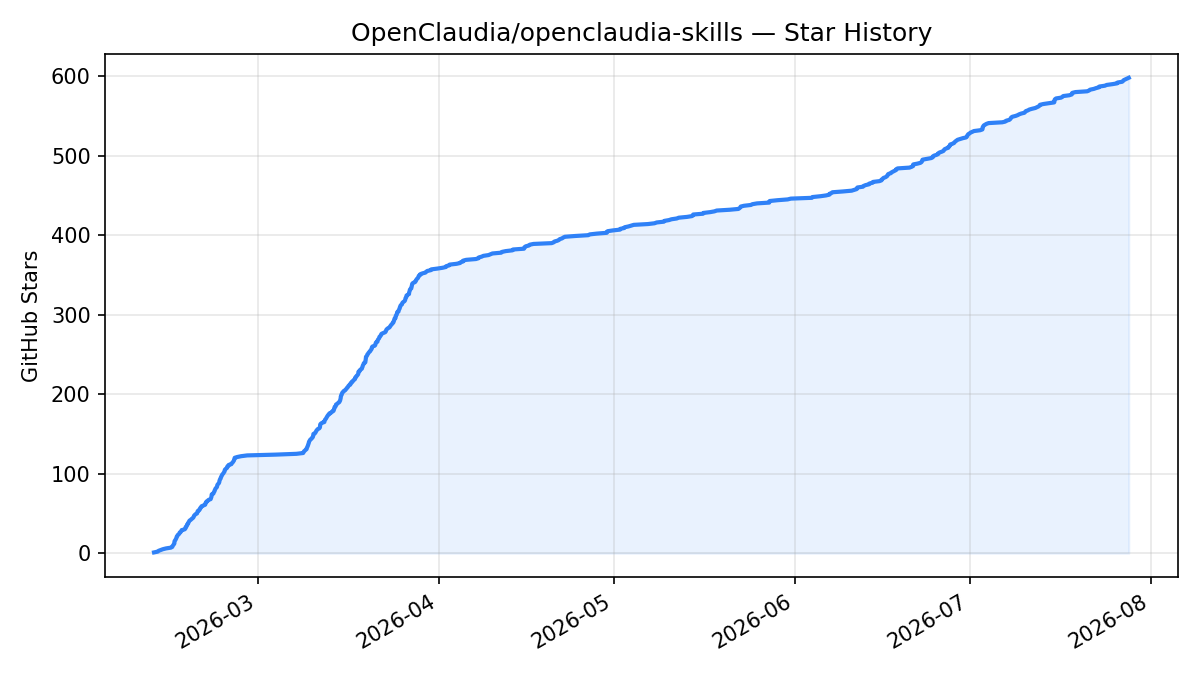
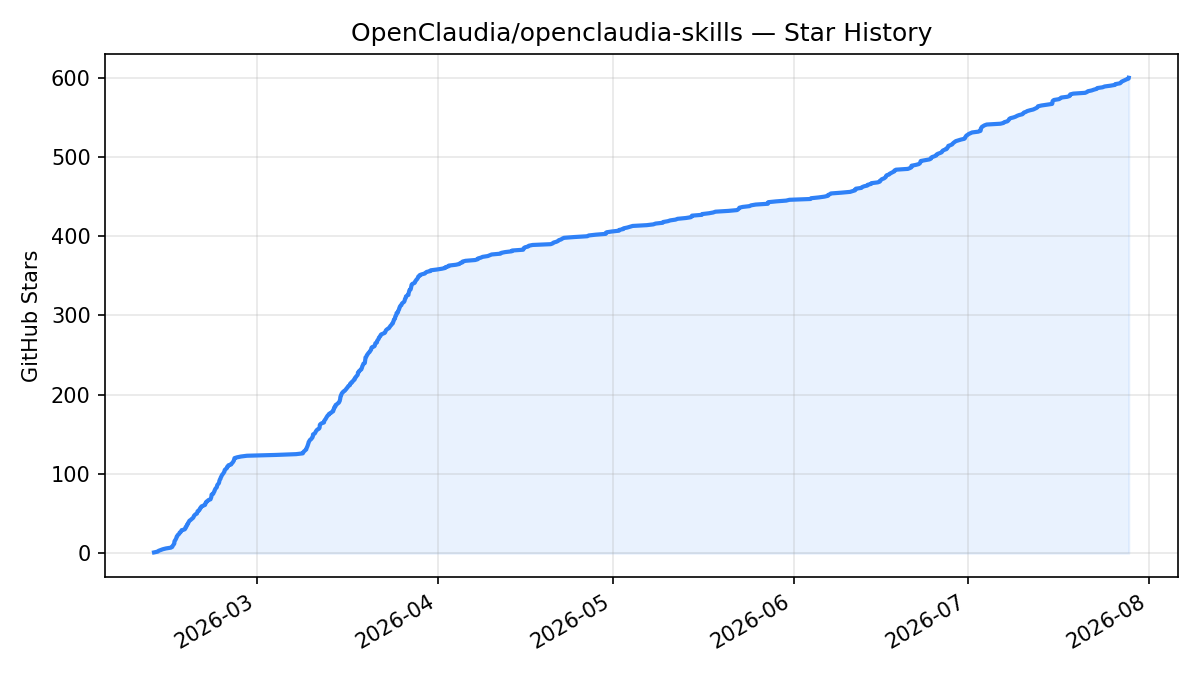
readme: refresh star chart (600 stars)

diff --git a/README.md b/README.md
@@ -327,7 +327,7 @@ MIT — see [LICENSE](LICENSE)
 
 ![Star History Chart](assets/star-history.png)
 
-<sub>Updated 2026-07-27. GitHub [restricted the stargazers API](https://github.blog/changelog/2026-06-30-upcoming-access-restrictions-to-public-api-endpoints-and-ui-views/) in June 2026, so the live star-history.com badge no longer renders; this chart is generated from the repo's own star data.</sub>
+<sub>Updated 2026-07-28. GitHub [restricted the stargazers API](https://github.blog/changelog/2026-06-30-upcoming-access-restrictions-to-public-api-endpoints-and-ui-views/) in June 2026, so the live star-history.com badge no longer renders; this chart is generated from the repo's own star data.</sub>
 
 ---
 
